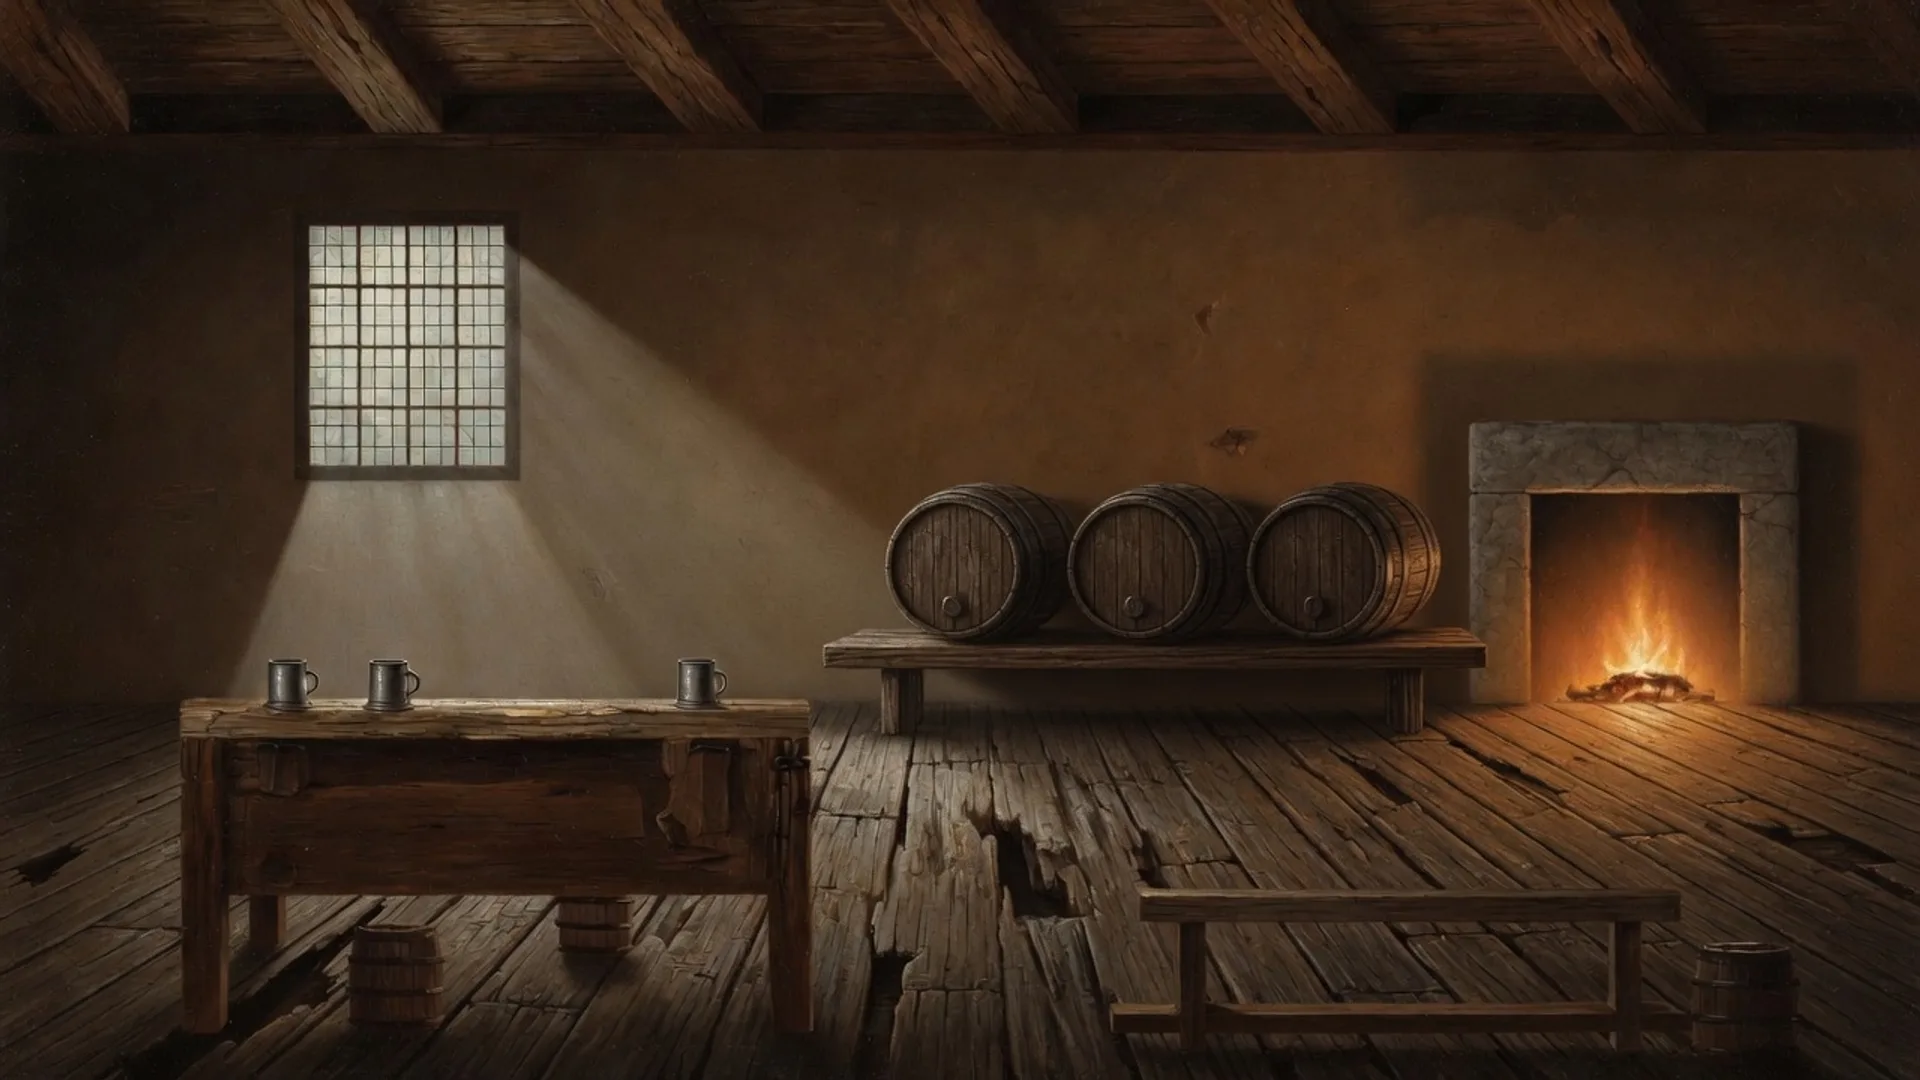
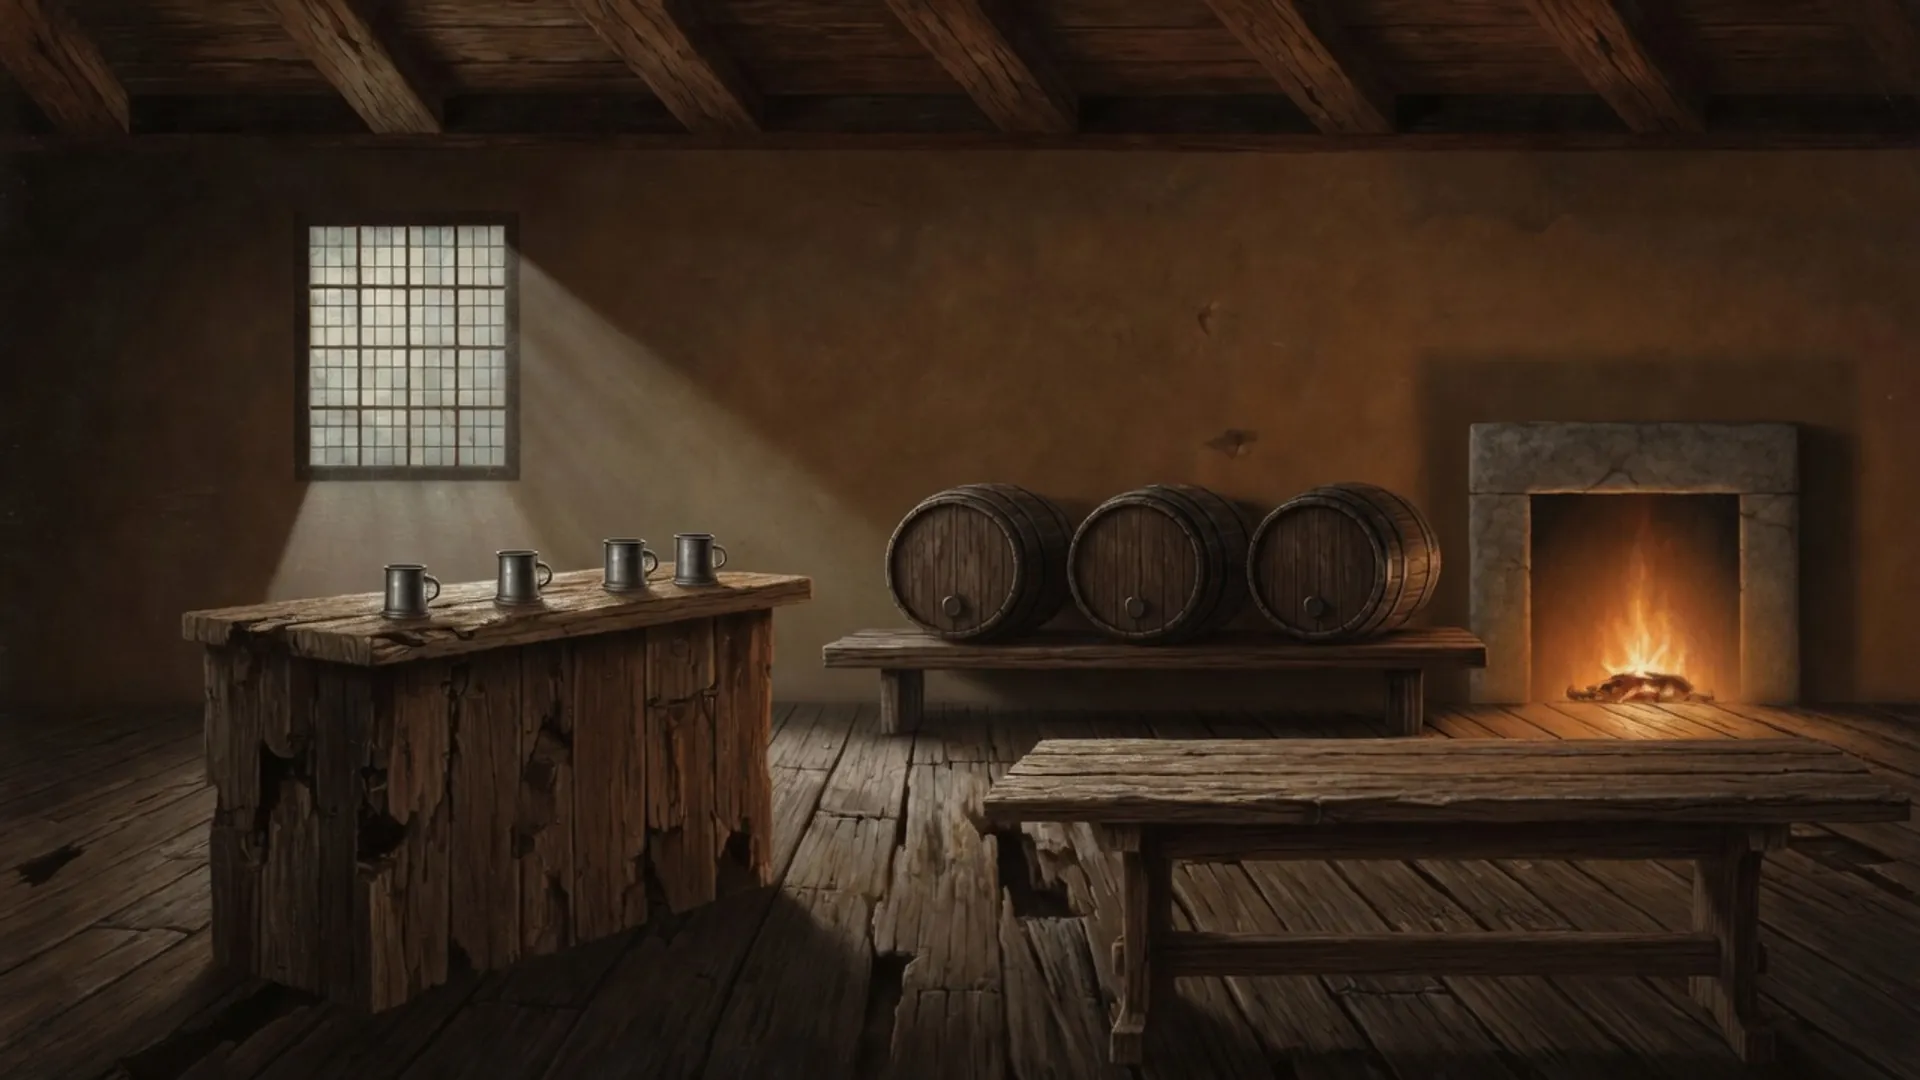
Rescale the Wooden Horse so people and furniture match
The painted bar was a close-up still life and the trestle a toy bench,
so Griet floated in a cutout and everyone else read as dolls. Repaint
the room at one sitting-room scale, stand Griet on the floor at the
bar, and drop the broken counter occluder.

diff --git a/src/lib/game/scenes.ts b/src/lib/game/scenes.ts
@@ -581,9 +581,9 @@ const woodenHorse: Scene = {
 		[1220, 700],
 		[80, 700]
 	],
-	// Painted furniture is closer than the SVG bar; bump depth scale so people
-	// match the counter and trestle instead of reading as tabletop figurines.
-	scale: { near: 1.2, far: 0.78 },
+	// Furniture is painted at sitting-room scale; people need to match the bar
+	// and trestle, not the old SVG doll-height.
+	scale: { near: 1.38, far: 0.92 },
 	entry: [640, 660],
 	ambience: 'tavern',
 
@@ -740,11 +740,11 @@ const woodenHorse: Scene = {
 		{
 			id: 'griet',
 			name: 'Griet Bogaert, tapster',
-			at: [318, 536],
+			at: [500, 636],
 			facing: 'front',
 			palette: PALETTES.griet,
-			height: 268,
-			walkTo: [360, 630],
+			height: 220,
+			walkTo: [460, 656],
 			defaultVerb: 'talk',
 			verbs: {
 				talk: [{ op: 'DIALOGUE', tree: 'griet' }],
@@ -780,11 +780,11 @@ const woodenHorse: Scene = {
 		{
 			id: 'yankee',
 			name: 'Ezekiel Mudge, of New Haven',
-			at: [980, 612],
+			at: [1184, 698],
 			facing: 'left',
 			palette: PALETTES.yankee,
 			height: 210,
-			walkTo: [900, 690],
+			walkTo: [1080, 690],
 			defaultVerb: 'talk',
 			verbs: {
 				talk: [{ op: 'DIALOGUE', tree: 'mudge' }],

diff --git a/src/lib/game/art/manifest.ts b/src/lib/game/art/manifest.ts
@@ -23,11 +23,7 @@ export const ART_PLATES: Record<string, ArtPlate> = {
 		occluder: '/art/pearl-street-occluder.webp',
 		occluderY: 688
 	},
-	'wooden-horse': {
-		plate: '/art/wooden-horse.webp',
-		occluder: '/art/wooden-horse-occluder.webp',
-		occluderY: 600
-	},
+	'wooden-horse': { plate: '/art/wooden-horse.webp' },
 	'fort-gate': { plate: '/art/fort-gate.webp' },
 	'land-gate': { plate: '/art/land-gate.webp' }
 };

diff --git a/docs/ART.md b/docs/ART.md
@@ -128,7 +128,8 @@ get large.
 3. Idle breath on the player and NPCs; ambience light overlays (water / fire /
    candle). Honour reduced motion.
 4. Act I outdoor rooms painted: `fort-gate.webp` (noon) and `land-gate.webp`
-   (dusk), same locked cameras. Occluders: Pearl Street shed and the Wooden
-   Horse counter (Griet stands behind the bar).
+   (dusk), same locked cameras. Occluders: Pearl Street shed strip. The
+   Wooden Horse counter is painted at sitting-room scale; Griet stands
+   on the floor at the bar, not behind a cutout.
 5. Next: painted near-plane occluders for the sentry box / stall, remaining
    hero NPCs, then Joost's walk cycle.
